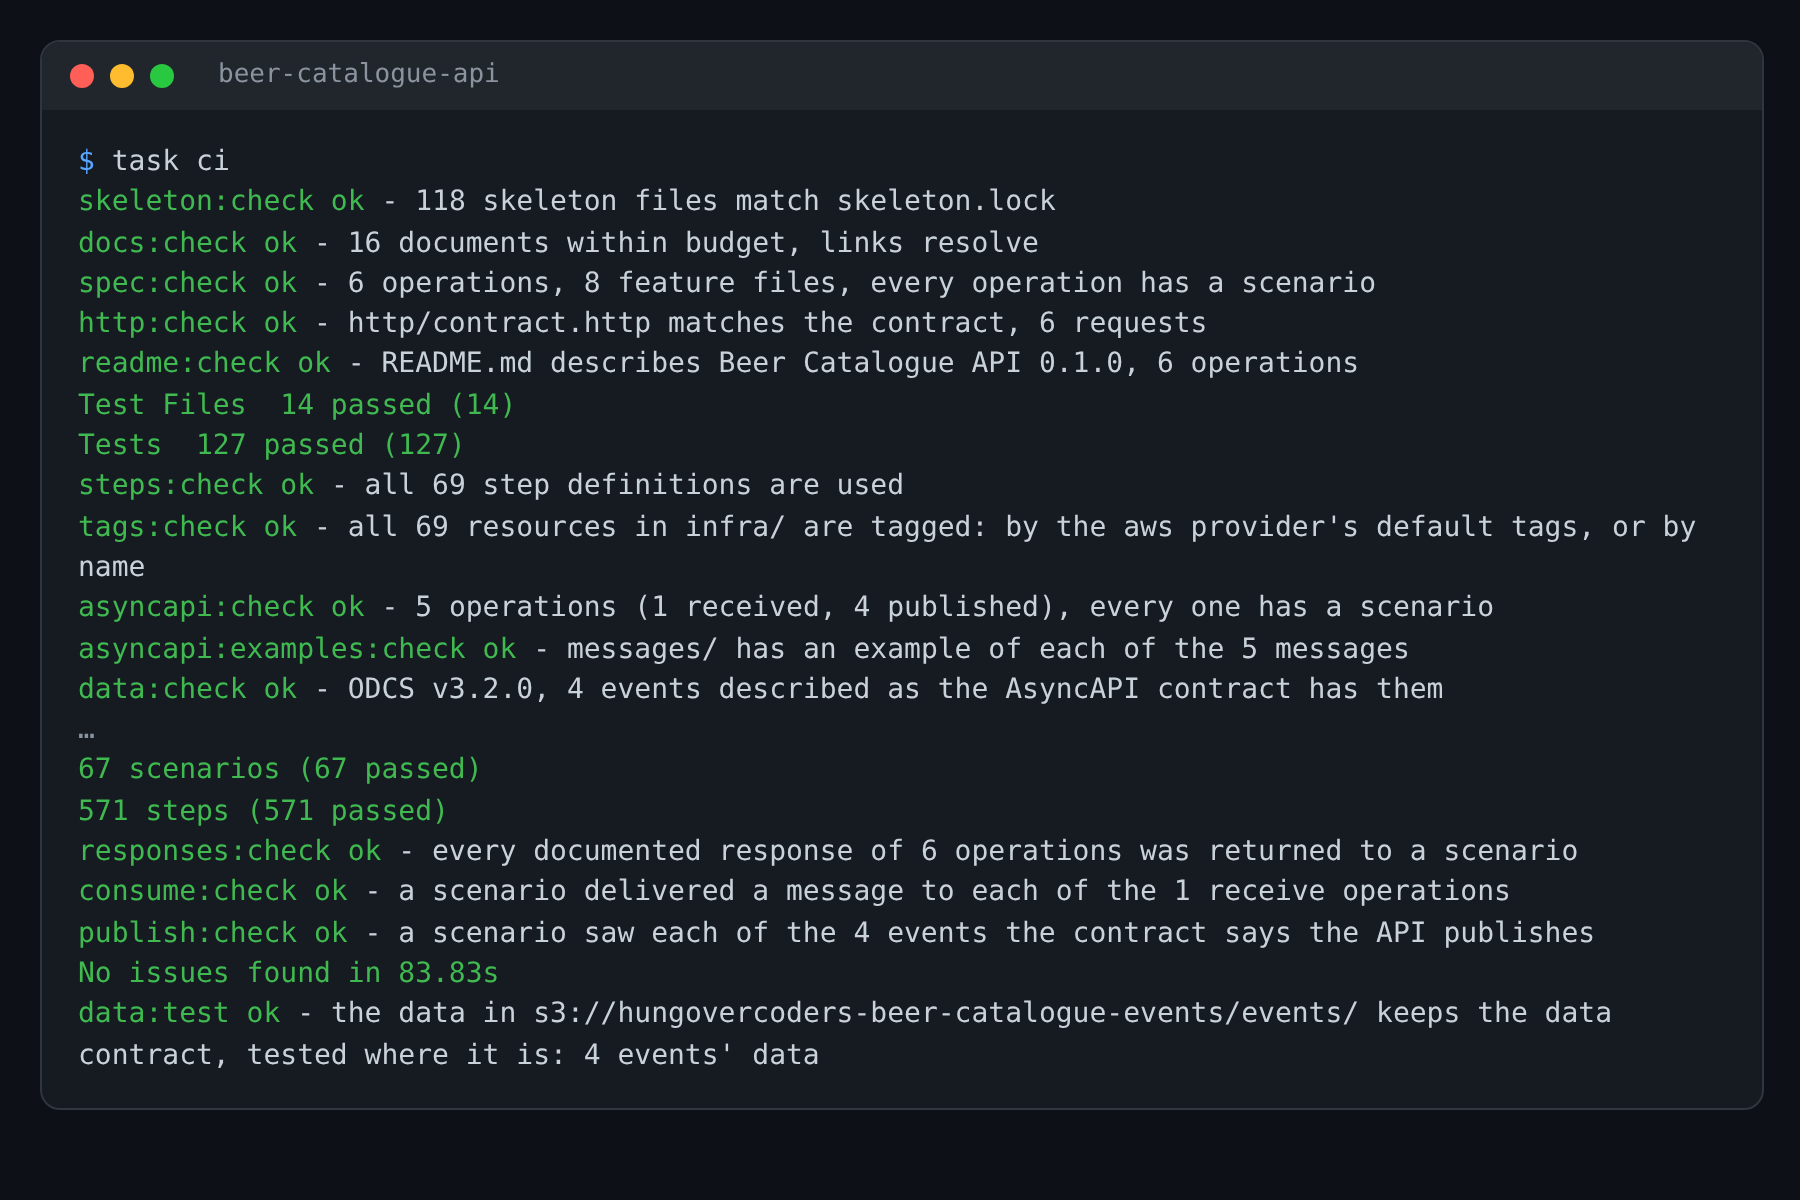
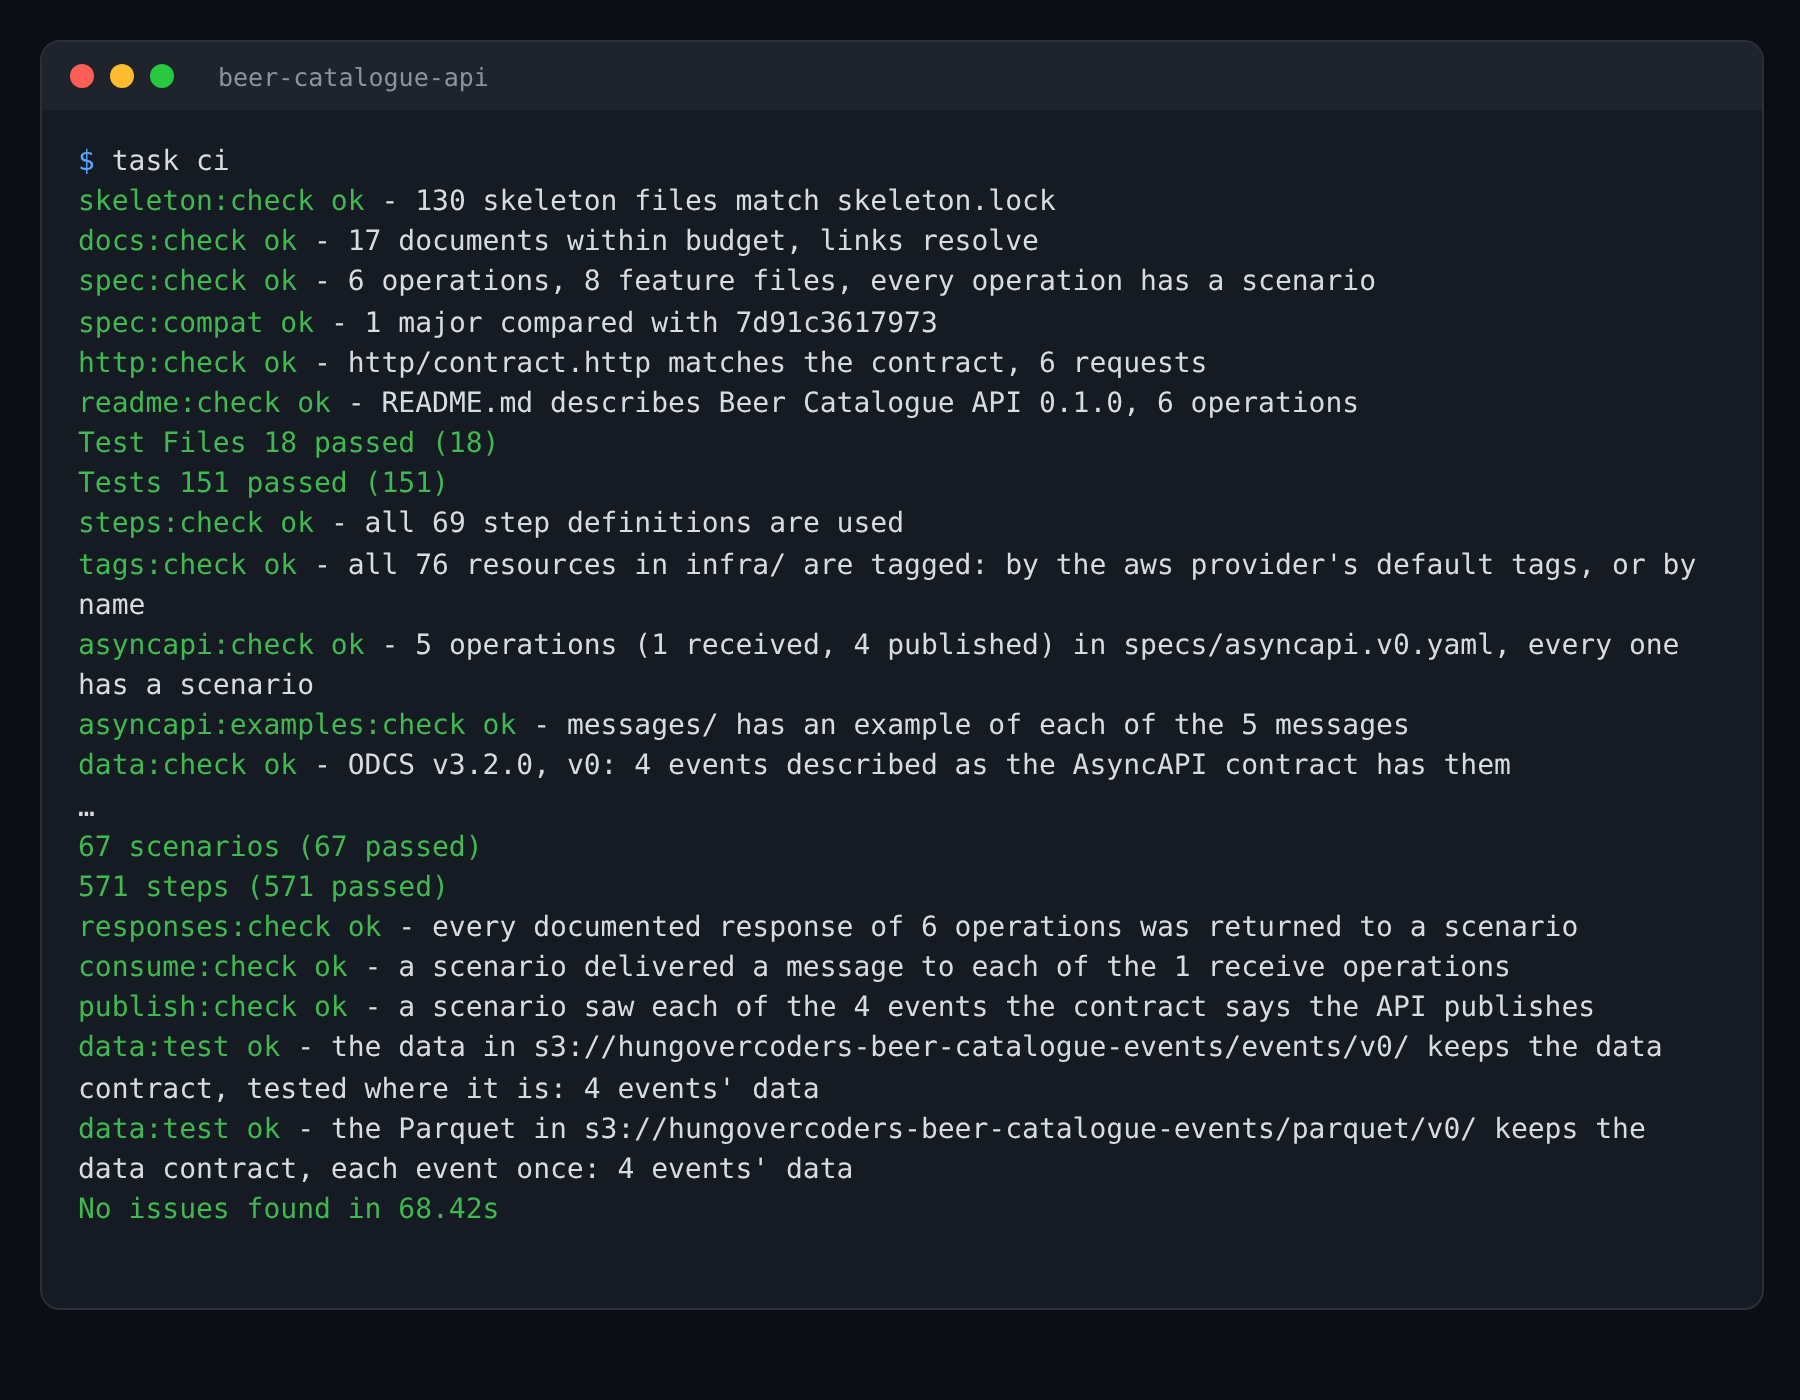
docs: the README shows the daily Parquet compaction - diagram, recording and the task ci screenshot
The architecture diagram adds the compactor, its daily schedule and the Parquet beside the raw JSON.
The recording ends by compacting the event and querying the Parquet view at /v0; the screenshot is a
fresh task ci, with the data test on both. The code sample takes the operation's _v0 name and path.

Claude-Session: https://claude.ai/code/session_01RQF49VJpHfQweKYEw7Lq88

Changed region(s): [[0.0311, 0.0308, 0.9333, 0.8942], [0.1244, 0.0308, 0.28, 0.0925]]

diff --git a/README.md b/README.md
@@ -29,18 +29,18 @@ The agent writes the logic: one small function per operation, and the glue
 for your sentences. From the example, shortened:
 
 ```ts
-export async function create_beer({ body }: Context<"create_beer">) {
+export async function create_beer_v0({ body }: Context<"create_beer_v0">) {
   const beer = { id: randomUUID(), name: body.name.trim(), style: body.style, abv: oneDecimal(body.abv) };
   await putNewBeer(beer);
-  return json(201, toBeer(beer), { location: `/beers/${beer.id}` });
+  return json(201, toBeer(beer), { location: `/v0/beers/${beer.id}` });
 }
 ```
 
-`task ci` then runs your scenarios against the real Lambda, on a local copy
-of AWS, and says whether it is finished. Here it is running: a request, a
-refusal, the event published and that event queried in S3 (real output, shortened).
+`task ci` then runs your scenarios against the real Lambda, on a local copy of AWS,
+and says whether it is finished. Here it is running: a request, a refusal, the event
+published, then compacted to Parquet in S3 and queried (real output, shortened).
 
-![The example API on AWS Emulator: a beer is added, a bad request is refused with the reasons, the published event is shown, and the same event is read back from S3 with SQL](.github/images/api-in-action.gif)
+![The example API on AWS Emulator: a beer is added, a bad request is refused with the reasons, the published event is shown, then compacted to Parquet in S3 and read back with SQL](.github/images/api-in-action.gif)
 
 ## Start here
 
@@ -77,8 +77,9 @@ flowchart TB
   table -->|"stream"| forwarder["Lambda: forwarder"]
   forwarder -->|"events (AsyncAPI, CloudEvents)"| bus{{"EventBridge bus"}}
   bus --> subscriber(["Subscribers"])
-  bus --> firehose["Firehose"] --> bucket[("S3: raw JSON, compacted daily to Parquet")]
-  bucket -->|"data contract (ODCS)"| analyst(["Analysts: DuckDB, Harlequin"])
+  bus --> firehose["Firehose"] --> raw[("S3: raw JSON")]
+  raw --> compactor["Lambda: compactor, daily (EventBridge Scheduler)"] --> parquet[("S3: Parquet, a file per day")]
+  raw & parquet -->|"data contract (ODCS)"| analyst(["Analysts: DuckDB, Harlequin"])
 ```
 
 | Interface | Direction | Contract | Optional |
@@ -109,9 +110,8 @@ need an optional part removes it, and can bring it back later:
 
 **Tests that mean something**
 
-- Your scenarios run against the built Lambda, through the stack your own
-  Terraform created on [AWS Emulator](https://github.com/aws/aws-emulator).
-  Nothing is mocked.
+- Your scenarios run against the built Lambda, through the stack your own Terraform
+  created on [AWS Emulator](https://github.com/aws/aws-emulator). Nothing is mocked.
 - Every response is checked against the contract, and the API is fuzzed.
 
 **Ready for production**
@@ -182,7 +182,7 @@ is what implementing one adds.
 
 `task ci` on `example/implementation` (selected lines):
 
-![task ci passing: every gate, 127 unit tests, 67 scenarios, the fuzz run and the data test](.github/images/task-ci.png)
+![task ci passing: every gate, 151 unit tests, 67 scenarios, the fuzz run and the data test on the raw JSON and the Parquet](.github/images/task-ci.png)
 
 > **CI on `main` is red on purpose.** There is no spec to build yet, so
 > `task ci` fails until you add one. Changes to the template itself are
